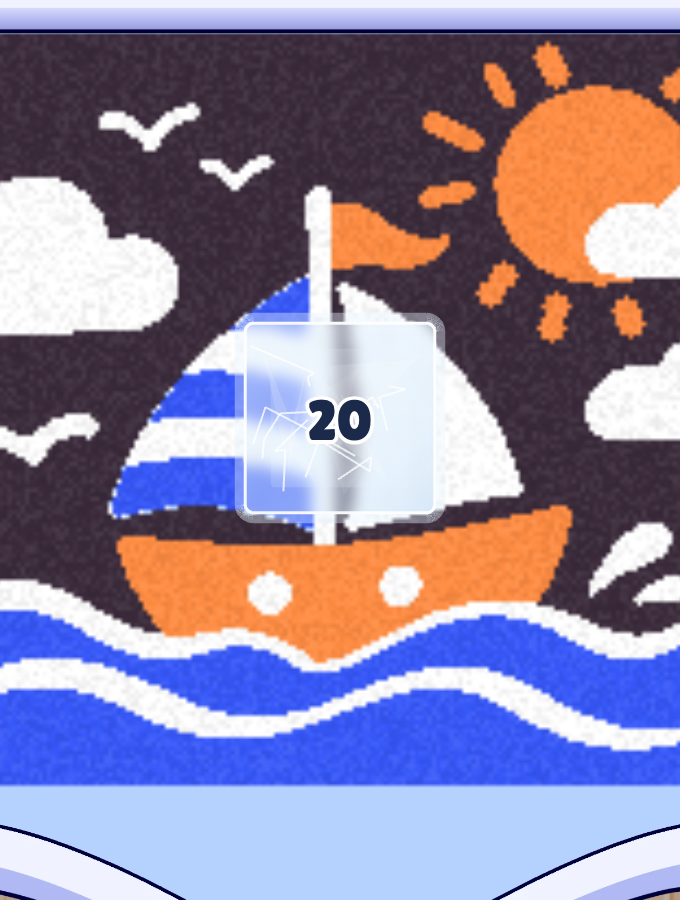
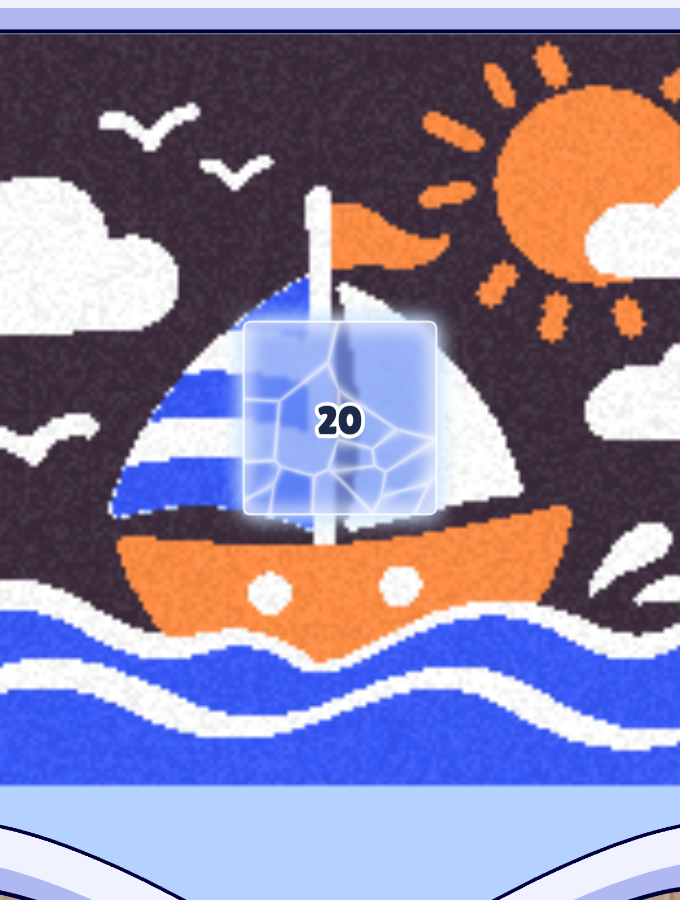
Frozen as clear blue ice (cracked cells, edge glow); new frame and conveyor art as delivered

Changed region(s): [[0.3397, 0.3422, 0.6794, 0.5911], [0.0, 0.0, 1.0, 0.0311]]

diff --git a/src/scenes/Game.ts b/src/scenes/Game.ts
@@ -387,80 +387,91 @@ export class Game extends Phaser.Scene {
         s.picDirty = false;
     }
 
-    /** Frosted ice over each frozen area: a light blue sheet with a white rim, cracks and light
-     * facets, and the number of nests still to remove in the middle. */
+    /** Ice over each frozen area: the picture shows through it tinted cool blue, cracked into
+     * pale cells, with a soft white glow round its edge, and the number of nests still to remove
+     * in the middle. */
     private drawIce() {
         for (const f of this.ice) f.box.destroy();
         this.ice = [];
-        const s = this.sim, rnd = mulberry32(77 + this.levelIndex);
+        const s = this.sim;
         s.frozen.forEach((f, i) => {
-            const w = (f.x1 - f.x0 + 1) * s.gs, h = (f.y1 - f.y0 + 1) * s.gs, round = f.def.shape === 'circle';
+            const w = (f.x1 - f.x0 + 1) * s.gs, h = (f.y1 - f.y0 + 1) * s.gs;
             const box = this.add.container(s.ox + f.x0 * s.gs + w / 2, s.oy + f.y0 * s.gs + h / 2).setDepth(D.sand + 0.3);
-            const frost = this.frostTexture('ice' + i, f.x0, f.y0, f.x1, f.y1, round);
-            const g = this.add.graphics();
-            const shape = (inset: number) => round ? g.fillEllipse(0, 0, w - 2 * inset, h - 2 * inset) : g.fillRoundedRect(-w / 2 + inset, -h / 2 + inset, w - 2 * inset, h - 2 * inset, Math.max(4, 10 - inset));
-            const outline = (inset: number) => round ? g.strokeEllipse(0, 0, w - 2 * inset, h - 2 * inset) : g.strokeRoundedRect(-w / 2 + inset, -h / 2 + inset, w - 2 * inset, h - 2 * inset, Math.max(4, 10 - inset));
-            // a soft glow round it, the frosted sheet, a lighter core
-            g.lineStyle(10, 0xe6f4ff, 0.4); outline(-4);
-            g.fillStyle(0xeaf6ff, 0.18); shape(w * 0.14);
-            // light facets and cracks, like broken ice
-            const inside = (x: number, y: number) => round ? (x / (w / 2)) ** 2 + (y / (h / 2)) ** 2 < 0.8 : Math.abs(x) < w / 2 - 6 && Math.abs(y) < h / 2 - 6;
-            const pt = () => { for (;;) { const x = (rnd() - 0.5) * w, y = (rnd() - 0.5) * h; if (inside(x, y)) return [x, y] as const; } };
-            for (let i = 0; i < 7; i++) {
-                const [ax, ay] = pt(), [bx, by] = pt(), [cx, cy] = pt();
-                g.fillStyle(0xffffff, 0.07 + rnd() * 0.08); g.fillTriangle(ax, ay, bx, by, cx, cy);
-            }
-            g.lineStyle(2, 0xffffff, 0.75);
-            for (let i = 0; i < 9; i++) {
-                let [x, y] = pt();
-                g.beginPath(); g.moveTo(x, y);
-                for (let k = 0; k < 3; k++) { const [nx, ny] = pt(); x += (nx - x) * 0.45; y += (ny - y) * 0.45; g.lineTo(x, y); }
-                g.strokePath();
-            }
-            // a bright rim
-            g.lineStyle(3, 0xffffff, 0.9); outline(1.5);
-            const text = this.text(0, 2, String(f.count), Math.round(Math.min(56, Math.max(30, Math.min(w, h) * 0.32))), '#1b2a4a', '#ffffff', 8);
-            box.add([this.add.image(0, 0, frost).setDisplaySize(w, h), g, text]);
+            const { key, margin } = this.frostTexture('ice' + i, f.x0, f.y0, f.x1, f.y1, f.def.shape === 'circle', 77 + this.levelIndex * 13 + i);
+            const text = this.text(0, 2, String(f.count), Math.round(Math.min(52, Math.max(28, Math.min(w, h) * 0.2))), '#1b2a4a', '#ffffff', 8);
+            box.add([this.add.image(0, 0, key).setDisplaySize(w + 2 * margin * s.gs, h + 2 * margin * s.gs), text]);
             this.ice.push({ box, text, count: f.count, broken: f.broke !== null });
             if (f.broke !== null) box.setVisible(false);
         });
     }
 
-    /** Frosted glass for one frozen area: the picture's grains under it (which cannot change
-     * while it is frozen), blurred and washed pale blue, cut to the area's shape, so the pattern
-     * and colours show faintly through the ice. */
-    private frostTexture(key: string, x0: number, y0: number, x1: number, y1: number, round: boolean) {
-        const s = this.sim, cw = x1 - x0 + 1, ch = y1 - y0 + 1, k = 4, W = cw * k, H = ch * k;
+    /** The ice for one frozen area, drawn once (the sand under it cannot change while it is
+     * frozen): the grains under it, softened and tinted cool blue; pale cracks between ice cells
+     * (a Voronoi pattern, each cell a little lighter or darker); a white glow along the inside
+     * of its edge and round its outside. The texture has a `margin` (in grains) on every side
+     * for the outer glow. */
+    private frostTexture(key: string, x0: number, y0: number, x1: number, y1: number, round: boolean, seed: number) {
+        const s = this.sim, cw = x1 - x0 + 1, ch = y1 - y0 + 1, k = 6, W = cw * k, H = ch * k, margin = 7, M = margin * k;
         const src = document.createElement('canvas');
         src.width = cw; src.height = ch;
         const img = src.getContext('2d')!.createImageData(cw, ch), px = new Uint32Array(img.data.buffer);
         for (let y = 0; y < ch; y++) for (let x = 0; x < cw; x++) {
             const p = (y0 + y) * s.G + x0 + x;
-            px[y * cw + x] = s.key[p] ? s.rgb[p] : 0xffd8c8b8;
+            px[y * cw + x] = s.key[p] ? s.rgb[p] : 0xffffd2b5;
         }
         src.getContext('2d')!.putImageData(img, 0, 0);
+
+        // the cracks: pale lines where two ice cells meet, each cell a little lighter or darker
+        const rnd = mulberry32(seed), n = Math.max(8, Math.min(60, Math.round((cw * ch) / 130)));
+        const pts = Array.from({ length: n }, () => [rnd() * W, rnd() * H, rnd()] as const);
+        const crack = document.createElement('canvas');
+        crack.width = W; crack.height = H;
+        const ci = crack.getContext('2d')!.createImageData(W, H), cd = ci.data, edge = 2.4 * k;
+        for (let y = 0; y < H; y++) for (let x = 0; x < W; x++) {
+            let d1 = Infinity, d2 = Infinity, c = 0;
+            for (let j = 0; j < n; j++) {
+                const d = Math.hypot(pts[j][0] - x, pts[j][1] - y);
+                if (d < d1) { d2 = d1; d1 = d; c = j; } else if (d < d2) d2 = d;
+            }
+            const line = Math.max(0, 1 - (d2 - d1) / edge) ** 2, a = Math.min(1, line * 0.6 + pts[c][2] * 0.08 + (d1 / (d1 + d2)) ** 2 * 0.24);
+            const q = (y * W + x) * 4;
+            cd[q] = 255; cd[q + 1] = 255; cd[q + 2] = 255; cd[q + 3] = Math.round(a * 255);
+        }
+        crack.getContext('2d')!.putImageData(ci, 0, 0);
+
         if (this.textures.exists(key)) this.textures.remove(key);
-        const tex = this.textures.createCanvas(key, W, H)!, ctx = tex.getContext();
+        const tex = this.textures.createCanvas(key, W + 2 * M, H + 2 * M)!, ctx = tex.getContext();
+        const path = () => {
+            ctx.beginPath();
+            if (round) ctx.ellipse(M + W / 2, M + H / 2, W / 2, H / 2, 0, 0, Math.PI * 2);
+            else ctx.roundRect(M, M, W, H, 1.5 * k);
+        };
+        // the glow round its outside
         ctx.save();
-        ctx.beginPath();
-        if (round) ctx.ellipse(W / 2, H / 2, W / 2, H / 2, 0, 0, Math.PI * 2);
-        else ctx.roundRect(0, 0, W, H, 10 * k / s.gs);
-        ctx.clip();
-        // drawn a little larger than the area so the blur doesn't fade its edges
-        ctx.filter = `blur(${1.6 * k}px)`;
-        ctx.drawImage(src, -2 * k, -2 * k, W + 4 * k, H + 4 * k);
-        ctx.filter = 'none';
-        ctx.fillStyle = 'rgba(214, 236, 255, 0.45)';
-        ctx.fillRect(0, 0, W, H);
-        const sheen = ctx.createLinearGradient(0, 0, W, H);
-        sheen.addColorStop(0, 'rgba(255,255,255,0.3)');
-        sheen.addColorStop(0.5, 'rgba(255,255,255,0.05)');
-        sheen.addColorStop(1, 'rgba(160,200,240,0.25)');
-        ctx.fillStyle = sheen;
-        ctx.fillRect(0, 0, W, H);
+        ctx.shadowColor = 'rgba(200, 228, 255, 1)'; ctx.shadowBlur = 5 * k;
+        ctx.fillStyle = 'rgba(200, 228, 255, 1)';
+        path(); ctx.fill(); ctx.fill();
         ctx.restore();
+        // the ice itself
+        ctx.save();
+        path(); ctx.clip();
+        ctx.clearRect(M, M, W, H);
+        ctx.filter = `blur(${0.5 * k}px)`;
+        ctx.drawImage(src, M - k, M - k, W + 2 * k, H + 2 * k);
+        ctx.filter = 'none';
+        ctx.fillStyle = 'rgba(95, 135, 245, 0.68)';
+        ctx.fillRect(M, M, W, H);
+        ctx.drawImage(crack, M, M);
+        // the white glow along the inside of its edge
+        ctx.filter = `blur(${2 * k}px)`;
+        ctx.strokeStyle = 'rgba(255, 255, 255, 0.85)'; ctx.lineWidth = 3.4 * k;
+        path(); ctx.stroke();
+        ctx.filter = 'none';
+        ctx.restore();
+        path();
+        ctx.strokeStyle = 'rgba(255, 255, 255, 0.8)'; ctx.lineWidth = 0.5 * k; ctx.stroke();
         tex.refresh();
-        return key;
+        return { key, margin };
     }
 
     /** The ice follows the frozen areas: the number pops as it counts down; at 0 the ice
@@ -497,13 +508,13 @@ export class Game extends Phaser.Scene {
         this.add.image(x, y, 'frame_stroke').setOrigin(0).setDisplaySize(A.imgW * kx, A.imgH * ky).setDepth(D.sand + 0.5);
     }
 
-    /** The belt art (img/conveyor.png, 1884 x 496): its slate band with its dark outline (x 71 to
-     * 1814, y 82 to 414 of the art, centred on its middle row) lies on the track, 2 x (BELT.r +
-     * BELT.band / 2) tall; only its middle is stretched, so the round ends keep their shape. Round
-     * it, a wall shaded dark at the top and light at the bottom sets the belt into the wood. Its
-     * fill gauge (img/progress_bar.png) runs along the middle. */
+    /** The belt art (img/conveyor.png, 1872 x 454, with its own hollow in the wood drawn round
+     * it): its slate band with its dark outline (x 64 to 1807, y 61 to 393 of the art, centred on
+     * its middle row) lies on the track, 2 x (BELT.r + BELT.band / 2) tall; only its middle is
+     * stretched, so the round ends keep their shape. Its fill gauge (img/progress_bar.png) runs
+     * along the middle. */
     private drawBeltBase() {
-        const R = BELT.r + BELT.band / 2, k = (2 * R) / 332, w = (BELT.cxR - BELT.cxL + 2 * R) / k + 71 + 70;
+        const R = BELT.r + BELT.band / 2, k = (2 * R) / 332, w = (BELT.cxR - BELT.cxL + 2 * R) / k + 64 + 64;
         this.add.nineslice(540, BELT.cy, 'conveyor', undefined, w, undefined, 250, 250, 0, 0).setScale(k).setDepth(D.belt - 0.5);
         // the gauge's groove is x 22 to 1378, y 14 to 66 of its 1400 x 95 art; the green fill is
         // exactly as tall as the groove

diff --git a/docs/gdd/core-gameplay.md b/docs/gdd/core-gameplay.md
@@ -59,10 +59,10 @@ Every change to the game, build by build, is in the [Changelog](./changelog). Si
 <td>
 <p><b>Structure:</b> about 57 % of the screen height: the picture frame and its funnel, one piece of art (<code>img/frame.png</code>).</p>
 <ul>
-<li><b>Board:</b> the frame's inside, 824 × 776 px at (128, 330), under the frame's grey top band (shaded as a wall under the raised white rim). Its corners are rounded like the art's (the top corners of the light blue, and the bottom corners where they begin to curve into the funnel); no sand goes there.</li>
+<li><b>Board:</b> the frame's inside, 824 × 776 px at (128, 330), under the frame's lilac top band. Its corners are rounded like the art's (the top corners of the light blue, and the bottom corners where they begin to curve into the funnel); no sand goes there.</li>
 <li><b>Picture:</b> up to 188 × 176 grains (22 cells tall; a cell is 8 × 8 grains, 35 px; a grain is about 4.4 px). The scale is the same in every level; a smaller picture sits centred. A full frame is exactly 517 blocks.</li>
 <li><b>Colours:</b> each level uses its own few colours from the Colour Bank (4 to 6 in the current levels, up to 12).</li>
-<li><b>Inner stroke:</b> a dark stroke runs along the inside's edge, from under the grey band down the sides and the funnel to the spout. It is drawn over the sand, so it shows even where a picture fills the frame.</li>
+<li><b>Inner stroke:</b> a dark stroke runs along the inside's edge, from under the top band down the sides and the funnel to the spout. It is drawn over the sand, so it shows even where a picture fills the frame.</li>
 <li><b>Funnel:</b> as wide as the board at the top (824 px), its sides curve in, as the art's do, to the hole (about 75 px wide) 183 px under the board. The spout ends over the <b>gate</b> at the bottom of the frame, just above the conveyor.</li>
 </ul>
 <p><b>Sand:</b></p>
@@ -92,7 +92,7 @@ Every change to the game, build by build, is in the [Changelog](./changelog). Si
 <li><b>Locked:</b> the sand under the ice cannot be swept and never comes loose by itself (small islands next to it still do). Falling sand cannot enter it, so loose sand piles up on top of it.</li>
 <li><b>Count:</b> the number goes down by 1 each time a nest is removed (a full nest pops and leaves its column). It pops a little each time it changes.</li>
 <li><b>Break:</b> at 0 the ice shatters: its shards fly out and fall, the sheet fades out, and the sand it held becomes ordinary fixed sand that the player can sweep.</li>
-<li><b>Look:</b> frosted glass: the picture under it shows through blurred and washed pale blue, so its pattern and colours can still be made out. A white rim, light facets and cracks, a soft glow round it; a dark number with a white outline in the middle.</li>
+<li><b>Look:</b> clear blue ice: the picture under it shows through, softened and tinted blue, so its pattern and colours can still be made out. It is cracked into pale cells, glows white along the inside of its edge and softly round its outside; a dark number with a white outline in the middle.</li>
 <li><b>Level Editor:</b> the ❄ tool (<code>F</code>) draws, moves and resizes areas on the picture; the Frozen section sets each one's shape, count and size, or deletes it (see the <a href="../guide/level-editor">Level Editor guide</a>). Areas show on the Sand Editor as a dashed outline with ❄ and the count.</li>
 <li><b>In the levels:</b> level_6, one 44 × 44 grain square on the sail, count 20.</li>
 </ul>
@@ -109,7 +109,7 @@ Every change to the game, build by build, is in the [Changelog](./changelog). Si
 <td>
 <p><b>Structure:</b> about 12 % of the screen height.</p>
 <ul>
-<li>A loop track: straight runs from x 203 to 877, round ends of radius 50, centred at y 1492. The belt art (<code>img/conveyor.png</code>) sits in a hollow in the wood: a wall round it, dark at the top as if in shadow and light at the bottom.</li>
+<li>A loop track: straight runs from x 203 to 877, round ends of radius 50, centred at y 1492. The belt art (<code>img/conveyor.png</code>) is drawn with its own hollow in the wood round it.</li>
 <li><b>30 slots</b>, each with a holder (a dark slate square); a block is a 32 px cube.</li>
 <li>A fill gauge in the middle shows how full the belt is (a green bar and a percentage).</li>
 </ul>

diff --git a/docs/gdd/changelog.md b/docs/gdd/changelog.md
@@ -4,6 +4,8 @@ Every published version stays playable at its own URL. The [landing page](https:
 
 ## latest (main) <Badge type="tip" text="Live" />
 
+- **Frozen redrawn as clear ice:** the picture under it shows through tinted blue (stronger than the pale frosted look), cracked into pale cells, with a white glow along the inside of its edge and a soft glow round its outside; no hard white rim.
+- **New frame and conveyor art:** the frame and the conveyor are the new art as delivered (the frame's lilac top band is the art's own; the shading added to it before is gone). The conveyor comes with its own hollow in the wood, so the one added before is gone; its band is drawn the same size and place as before.
 - **Level Editor: Frozen areas:** a ❄ tool (`F`) and a Frozen section in the Sand Editor. Drag on the picture to draw an area, drag inside it to move it, drag its corners to resize it (Shift keeps it square or round); pick one to set its shape (square or round), its count and its size in cells, or delete it. **＋ Thêm vùng** adds a 5 × 5 cell square in the middle. Undo covers it; the playtest plays it. See the [Level Editor guide](../guide/level-editor).
 - **Frozen looks like frosted glass:** the ice no longer hides the picture: the sand under it shows through blurred and washed pale blue, so its pattern and colours can still be made out.
 - **New obstacle: Frozen:** a square or round patch of the picture lies under a sheet of ice with a number on it. The sand under it cannot be swept or come loose, and falling sand piles up on it. Each nest removed counts the number down by 1; at 0 the ice shatters (shards fly out and fall) and the sand under it can be swept like any other. level_6 has one, a square on the sail counting from 20. The Level Editor keeps a level's frozen areas and outlines them on the Sand Editor. See [Core gameplay](./core-gameplay#obstacle-frozen). Not checked with the test bot.
